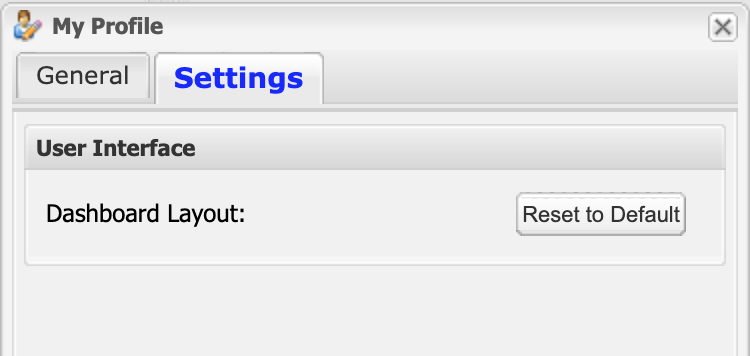
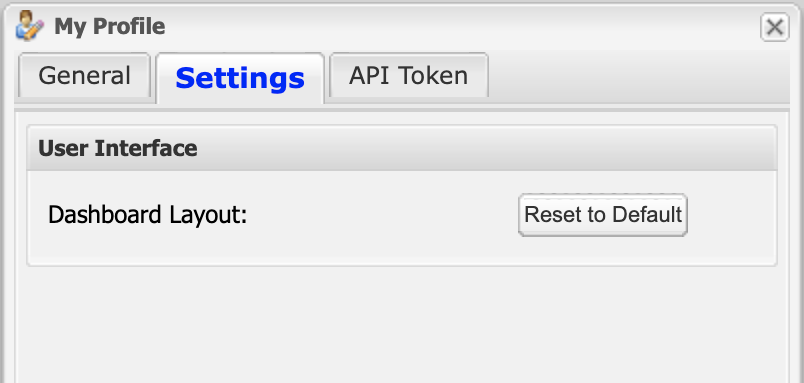
Add missing user manual updates. (#1901)

Changed region(s): [[0.0, 0.0309, 1.0, 1.0], [0.0613, 0.5253, 0.3373, 0.6489]]

diff --git a/user_manual_builder/Metric_Explorer.rst b/user_manual_builder/Metric_Explorer.rst
@@ -288,55 +288,36 @@ Managing Filters
 .. table::
    :widths: 75 25
 
-   +----------------------------------------------+-----------------------+
-   | .. figure:: media/image38.png                | As mentioned in the   |
-   |    :name: metric_explorer_filters            | previous section,     |
-   |                                              | filters allow you to  |
-   |    Filters section of Metric Explorer        | focus on a subset of  |
-   |                                              | the data. To apply    |
-   |                                              | filters to your data, |
-   |                                              | you can either        |
-   |                                              | consult the *Local    |
-   |                                              | Filters* section of   |
-   |                                              | the *Data Series      |
-   |                                              | Definition* dialog    |
-   |                                              | (see **Figure         |
-   |                                              | 8-10**), or make use  |
-   |                                              | of *Global Filters*   |
-   |                                              | (see **Figure         |
-   |                                              | 8-11**).              |
-   |                                              |                       |
-   |                                              | *Local* Filters are   |
-   |                                              | solely tailored to a  |
-   |                                              | single data series,   |
-   |                                              | whereas *Global*      |
-   |                                              | Filters are applied   |
-   |                                              | to all the data       |
-   |                                              | series you have       |
-   |                                              | introduced into the   |
-   |                                              | **Data** section of   |
-   |                                              | the Metric Explorer.  |
-   |                                              |                       |
-   |                                              | To create a filter,   |
-   |                                              | click on the *Add     |
-   |                                              | Filter* button (as    |
-   |                                              | highlighted in        |
-   |                                              | **Figure 8-11**).     |
-   |                                              | Doing so will provide |
-   |                                              | you with a list of    |
-   |                                              | dimensions (or        |
-   |                                              | parameters) you can   |
-   |                                              | filter with. Once you |
-   |                                              | have selected a       |
-   |                                              | dimension, you will   |
-   |                                              | be presented with a   |
-   |                                              | dialog allowing you   |
-   |                                              | to navigate, search,  |
-   |                                              | and select parameter  |
-   |                                              | values. Click on OK   |
-   |                                              | to apply any selected |
-   |                                              | filters.              |
-   +----------------------------------------------+-----------------------+
+   +----------------------------------------------+---------------------------------------+
+   | .. figure:: media/image38.png                | As mentioned in the previous section, |
+   |    :name: metric_explorer_filters            | filters allow you to focus on a       |
+   |                                              | subset of the data. To apply filters  |
+   |    Filters section of Metric Explorer        | to your data, you can either consult  |
+   |                                              | the *Local Filters* section of the    |
+   |                                              | *Data Series Definition* dialog (see  |
+   |                                              | :numref:`metric_explorer_filters`),   |
+   |                                              | or make use of *Global Filters* (see  |
+   |                                              | :numref:`metric_filter_logic`).       |
+   |                                              |                                       |
+   |                                              | *Local* Filters are solely tailored   |
+   |                                              | to a single data series, whereas      |
+   |                                              | *Global* Filters are applied to all   |
+   |                                              | the data series you have introduced   |
+   |                                              | into the **Data** section of the      |
+   |                                              | Metric Explorer.                      |
+   |                                              |                                       |
+   |                                              | To create a filter, click on the *Add |
+   |                                              | Filter* button (as highlighted in     |
+   |                                              | :numref:`metric_filter_logic`). Doing |
+   |                                              | so will provide you with a list of    |
+   |                                              | dimensions (or parameters) you can    |
+   |                                              | filter with. Once you have selected a |
+   |                                              | dimension, you will be presented with |
+   |                                              | a dialog allowing you to navigate,    |
+   |                                              | search, and select parameter values.  |
+   |                                              | Click on OK to apply any selected     |
+   |                                              | filters.                              |
+   +----------------------------------------------+---------------------------------------+
 
 .. table::
    :widths: 75 25

diff --git a/user_manual_builder/Efficiency.rst b/user_manual_builder/Efficiency.rst
@@ -33,36 +33,34 @@ usage and analytics associated with design. Usage analytics compare
 resources allocated for a job to measured usage for the job. Design
 analytics determine if jobs are using resources in an efficient manner
 consistent with their design. :numref:`efficiency_analytics_table` below lists the available
-analytics for the XDMoD 10.0 release and the associated description for
-that analytic.
+analytics and the associated description for each analytic.
 
 
 .. _efficiency_analytics_table:
 
-.. table:: Analytics available for display in the Efficiency Tab for XDMoD 10.0 Release.
+.. table:: Analytics available for display in the Efficiency Tab.
 
-   +------------+-------------------------------------------+------------+
-   | **         | **Description**                           | **         |
-   | Analytic** |                                           | Category** |
-   +============+===========================================+============+
-   | CPU Usage  | Measures the percentage of time that the  | Usage      |
-   |            | CPU cores were idle.                      |            |
-   +------------+-------------------------------------------+------------+
-   | GPU Usage  | Measures the percentage of time that the  | Usage      |
-   |            | GPUs were busy.                           |            |
-   +------------+-------------------------------------------+------------+
-   | Memory     | Measures the overall highest memory usage | Usage      |
-   | Usage      | for jobs.                                 |            |
-   +------------+-------------------------------------------+------------+
-   | H          | Measures how uniform the work rate of the | Usage      |
-   | omogeneity | job is.                                   |            |
-   +------------+-------------------------------------------+------------+
-   | Wall Time  | Measures how well used wall time matches  | Design     |
-   | Accuracy   | requested wall time.                      |            |
-   +------------+-------------------------------------------+------------+
-   | Short Jobs | Measures the number of jobs that ran for  | Design     |
-   |            | 30 seconds or less.                       |            |
-   +------------+-------------------------------------------+------------+
+   +--------------+-------------------------------------------+--------------+
+   | **Analytic** | **Description**                           | **Category** |
+   +==============+===========================================+==============+
+   | CPU Usage    | Measures the percentage of time that the  | Usage        |
+   |              | CPU cores were idle.                      |              |
+   +--------------+-------------------------------------------+--------------+
+   | GPU Usage    | Measures the percentage of time that the  | Usage        |
+   |              | GPUs were busy.                           |              |
+   +--------------+-------------------------------------------+--------------+
+   | Memory       | Measures the overall highest memory usage | Usage        |
+   | Usage        | for jobs.                                 |              |
+   +--------------+-------------------------------------------+--------------+
+   | Homogeneity  | Measures how uniform the work rate of the | Usage        |
+   |              | job is.                                   |              |
+   +--------------+-------------------------------------------+--------------+
+   | Wall Time    | Measures how well used wall time matches  | Design       |
+   | Accuracy     | requested wall time.                      |              |
+   +--------------+-------------------------------------------+--------------+
+   | Short Jobs   | Measures the number of jobs that ran for  | Design       |
+   |              | 30 seconds or less.                       |              |
+   +--------------+-------------------------------------------+--------------+
 
 .. _scatter_plot_view:
 

diff --git a/user_manual_builder/Dashboard_Tab.rst b/user_manual_builder/Dashboard_Tab.rst
@@ -115,10 +115,10 @@ component.
 The layout of the half-width dashboard components can be customized by
 dragging the title bar of a component (:numref:`dashboard_rearrange_layout`). The layout
 settings are saved automatically and persist between logins. The layout
-can be reset to default using the “Reset to default” button in the
-Settings tab of the “My Profile” dialog (:numref:`dashboard_reset_default`). The My Profile
-dialog is accessed via the “My Profile” button on the top left of the
-XDMoD portal. Full-width dashboard components cannot be moved.
+can be reset to default using the **Reset to default** button in the
+**Settings** tab of the **My Profile** dialog (:numref:`dashboard_reset_default`).
+The **My Profile** dialog is accessed via the **My Profile** button on the top
+right of the XDMoD portal. Full-width dashboard components cannot be moved.
 
 .. figure:: media/image80.png
    :name: dashboard_rearrange_layout
@@ -132,7 +132,8 @@ XDMoD portal. Full-width dashboard components cannot be moved.
    :width: 66%
 
    The dashboard layout can be reset to the default value
-   using the button available in the Settings tab of the Profile dialog.
+   using the button available in the **Settings** tab of the **My Profile**
+   dialog.
 
 Chart Component
 -------------------
@@ -151,15 +152,15 @@ component will open the chart in the Metric Explorer.
 
 The default chart configuration settings are controlled by the
 :only:`<Open>Open` XDMoD system administrator. Extra charts can be added
-to the dashboard via the Metric Explorer. Charts are added via the “Show
-in Summary tab” checkbox in the Metric Explorer basic chart options (see
+to the dashboard via the Metric Explorer. Charts are added via the **Show
+in Summary tab** checkbox in the Metric Explorer basic chart options (see
 :numref:`Section %s<basic_chart_options>` for more information).
 
 It is also possible to edit the default charts via the Metric Explorer.
 Click the wheel icon on the top right of the chart component to open the
 chart in the Metric Explorer. You can then edit the chart in the Metric
 Explorer and save the chart *without* changing the chart name field or
-deselecting the “Show in Summary tab” checkbox. To reset a system chart
+deselecting the **Show in Summary tab** checkbox. To reset a system chart
 to the default just delete it from the list of save charts in the Metric
 Explorer.
 
@@ -229,7 +230,7 @@ the data are obtained from the Jobs realm and the component will display
 The information displayed in the Jobs component is restricted by XDMoD’s
 role based access controls. A summary of the data available is shown in
 :only:`<Open>{open_account_restrictions}`:only:`<XSEDE>{xsede_account_restrictions}`
-below. The “Filter by Person” widget is not displayed for
+below. The **Filter by Person** widget is not displayed for
 the user role since it is superfluous.
 
 .. figure:: media/image64.png
@@ -237,7 +238,7 @@ the user role since it is superfluous.
 
    Annotated example of the Jobs component. The User role
    does not have permission to list other users jobs and does not have the
-   “\ *Filter by Person”* widget. The Job overall CPU usage information is
+   **Filter by Person** widget. The Job overall CPU usage information is
    only available if the optional Job Performance (SUPReMM) XDMoD module is
    installed.
 

diff --git a/user_manual_builder/About.rst b/user_manual_builder/About.rst
@@ -2,7 +2,7 @@ My Profile, About, Roadmap, Contact and Help
 ===============================================
 
 On the upper right side of the XDMoD page, there are a series of five
-buttons that allow the user to set his profile, get more information
+buttons that allow you to set your profile, get more information
 about XDMoD, view the XDMoD Roadmap, contact the XDMoD developers and
 seek help.
 
@@ -19,10 +19,6 @@ My Profile Button
 My profile allows you to view and update general settings pertaining to
 your account. To access your profile, click on the **My Profile** button
 located in the upper right section of the portal.
-
-Your current role will be displayed in the title bar of the **My
-Profile** window. In the figure above, for example, it shows the user is
-a **Program Officer**.
 
 The first section in the **My Profile** window contains **User
 Information** such as: First Name, Last Name, and Email Address. All of
@@ -51,6 +47,16 @@ follow.
 
       Role Delegation Menu
 
+Also in the **My Profile** window is a tab that allows you to create an
+**API Token** to use with the
+`Data Analytics Framework <https://pypi.org/project/xdmod-data>`_
+(:numref:`api_token_menu`).
+
+.. figure:: media/image137.png
+   :name: api_token_menu
+
+   API Token Menu
+
 About Button
 -----------------
 
@@ -72,9 +78,9 @@ Contact Button
 
    Contact Us Button
 
-Selecting the contact button will bring up a window that allows the user
-to send a message to the XDMoD team. The user must fill in his name,
-email address and his message.
+Selecting the contact button will bring up a window that allows you
+to send a message to the XDMoD team. You must fill in your name,
+email address, and message.
 
 .. figure:: media/image79.png
    :name: my_profile_contact_window
@@ -114,7 +120,7 @@ simply want to view the Roadmap you can select the various Trello cards
 shown in :numref:`about_trello_roadmap` for further details about each roadmap task.
 You can also “vote” for a feature in the roadmap that you would
 particularly like to use. To do this Sign Up or Log In to Trello (upper
-right corner Figure 15-6). Then clicking on any roadmap feature such as
+right corner :numref:`about_trello_roadmap`). Then clicking on any roadmap feature such as
 X-Y plot capacity, will give you access to the Vote box, as shown in
 :numref:`about_roadmap_voting`.
 
@@ -126,9 +132,9 @@ X-Y plot capacity, will give you access to the Vote box, as shown in
 .. figure:: media/image119.png
    :name: about_trello_roadmap
 
-   XDMD Roadmap on Trello.com
+   XDMoD Roadmap on Trello.com
 
 .. figure:: media/image54.png
    :name: about_roadmap_voting
 
-   Voting for a feature in the XDMD Roadmap on Trello.com
+   Voting for a feature in the XDMoD Roadmap on Trello.com

diff --git a/user_manual_builder/Job_Viewer.rst b/user_manual_builder/Job_Viewer.rst
@@ -125,8 +125,9 @@ here are normalized with values near 1 (displayed in green) indicating a
 good value and values near 0 (displayed in red) indicating a poor value
 for the metric. We note that not all jobs should be expected to have
 good values for all metrics. The default metrics that are displayed are
-CPU User Balance, Homogeneity, Memory Headroom and CPU User (see Figure
-10-5). CPU User Balance indicates how well balanced the usage is between
+CPU User Balance, Homogeneity, Memory Headroom and CPU User (see
+:numref:`job_viewer_information`).
+CPU User Balance indicates how well balanced the usage is between
 the various cores in the job based on the fraction of time each core
 spends in CPU user mode. CPU User Balance is defined as
 
